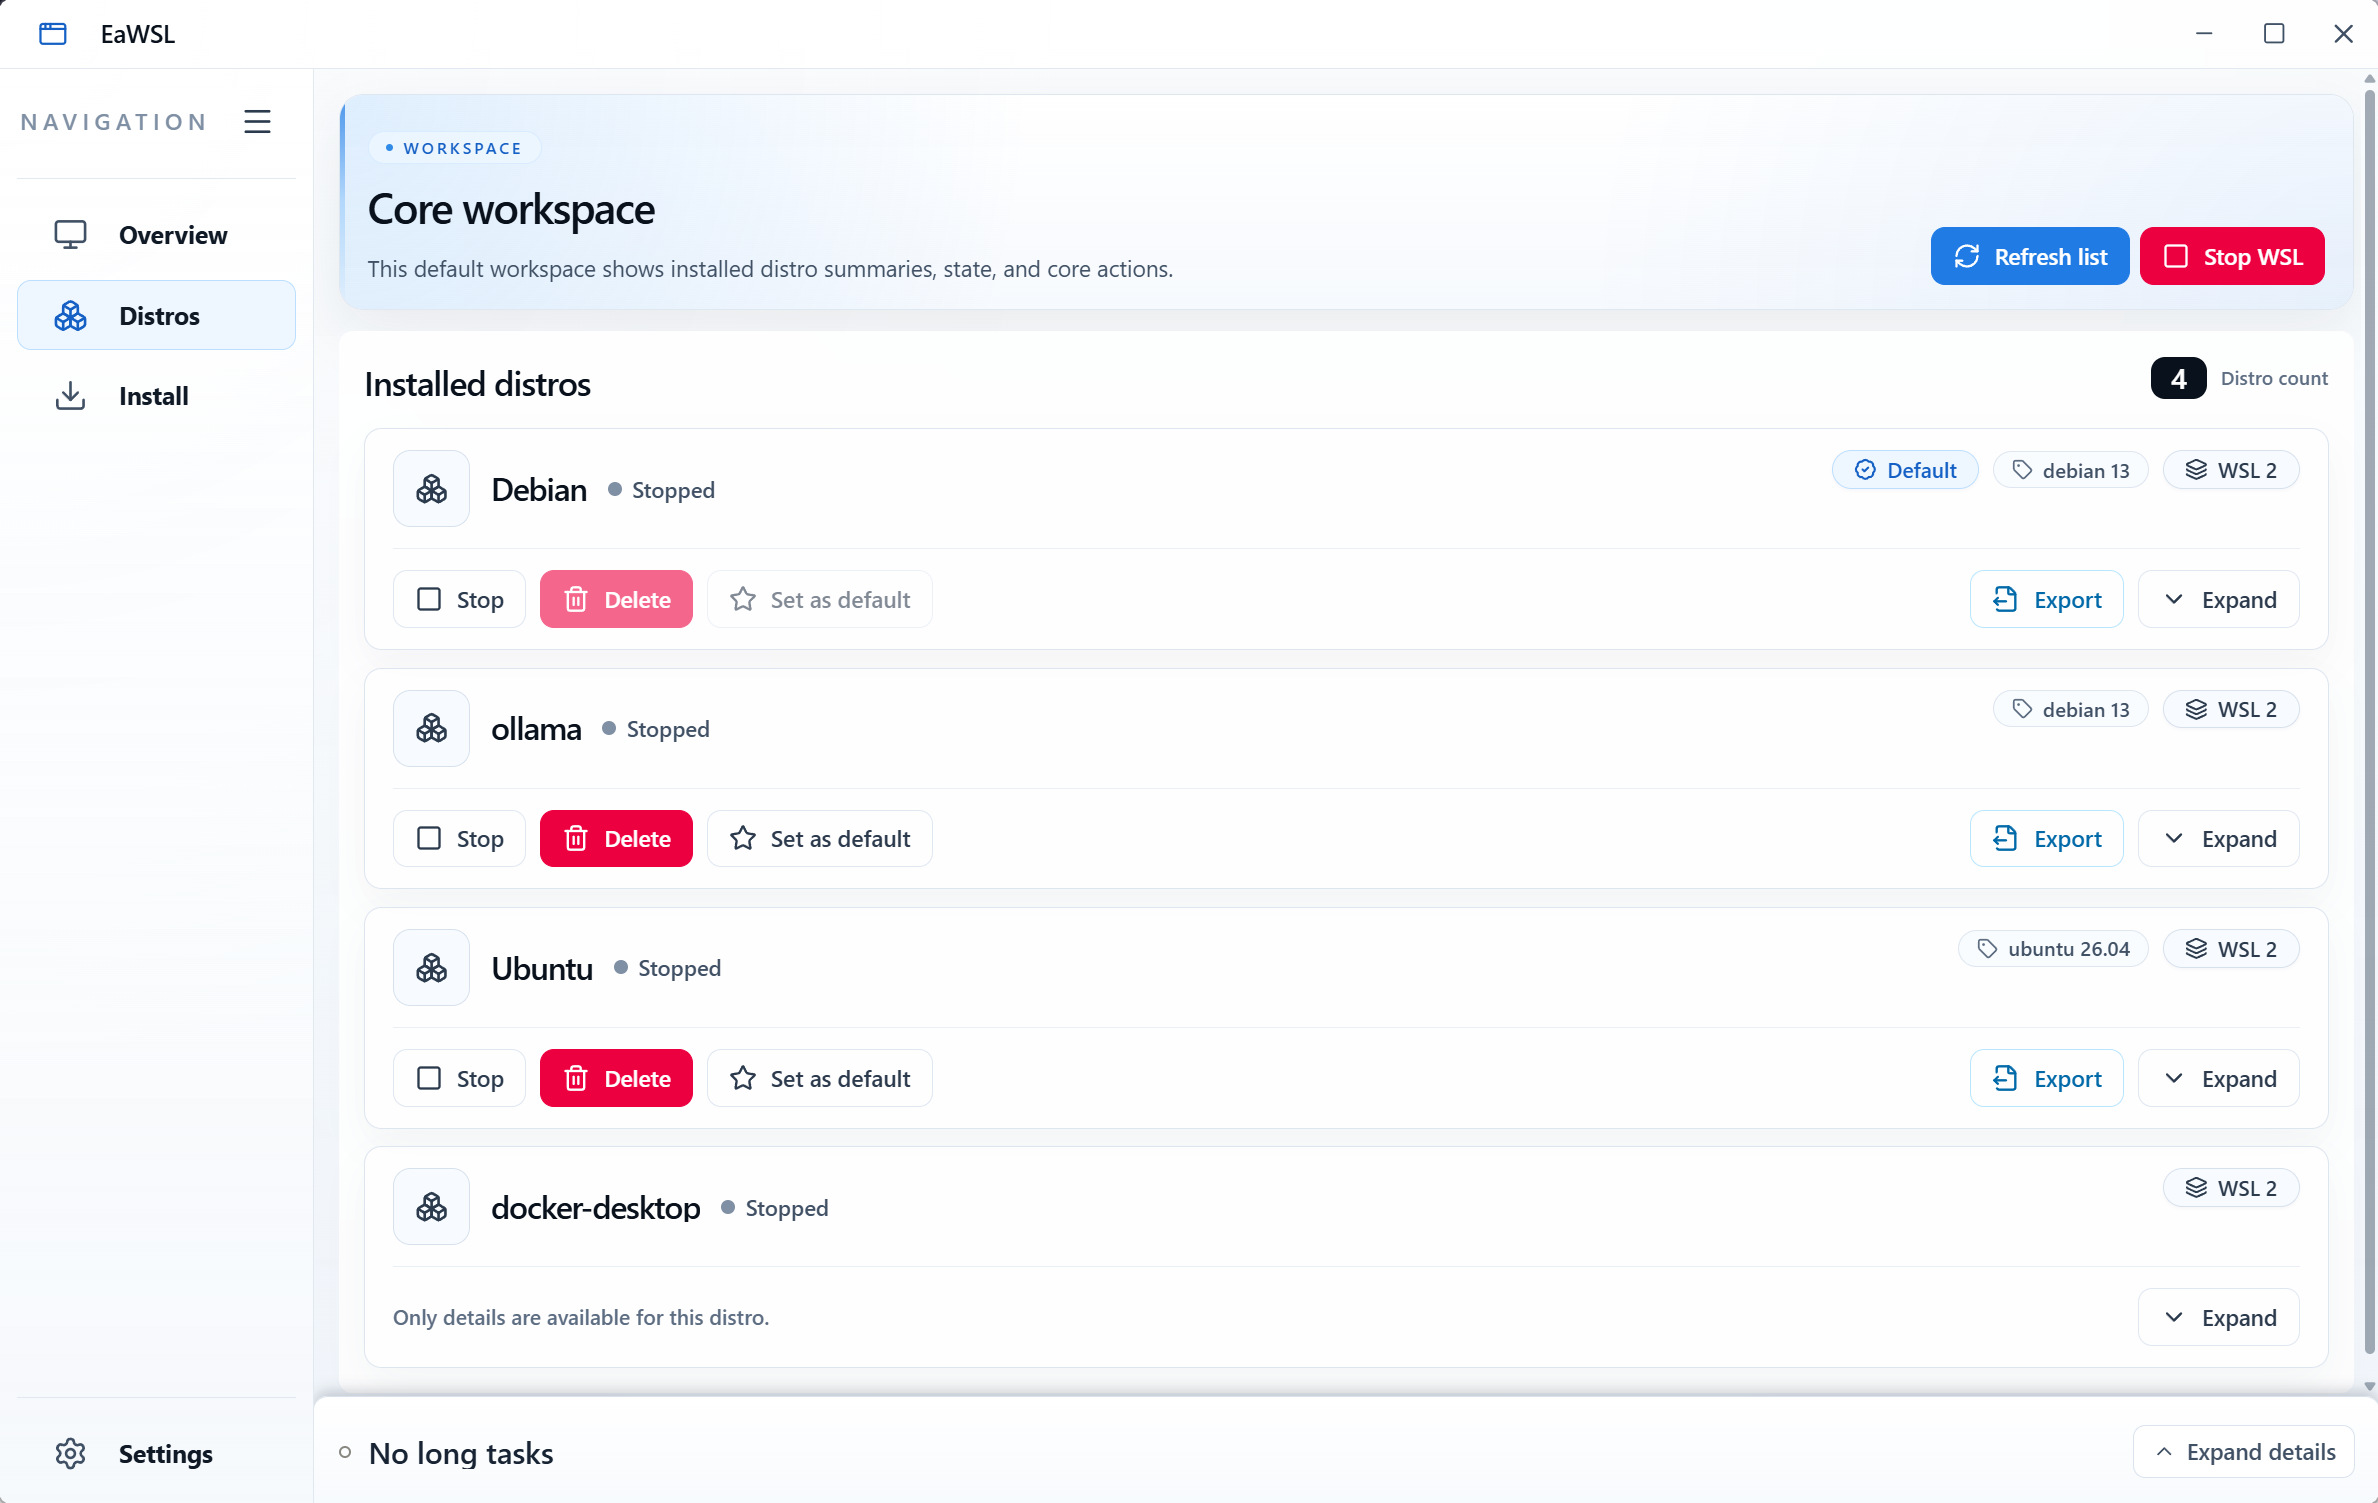
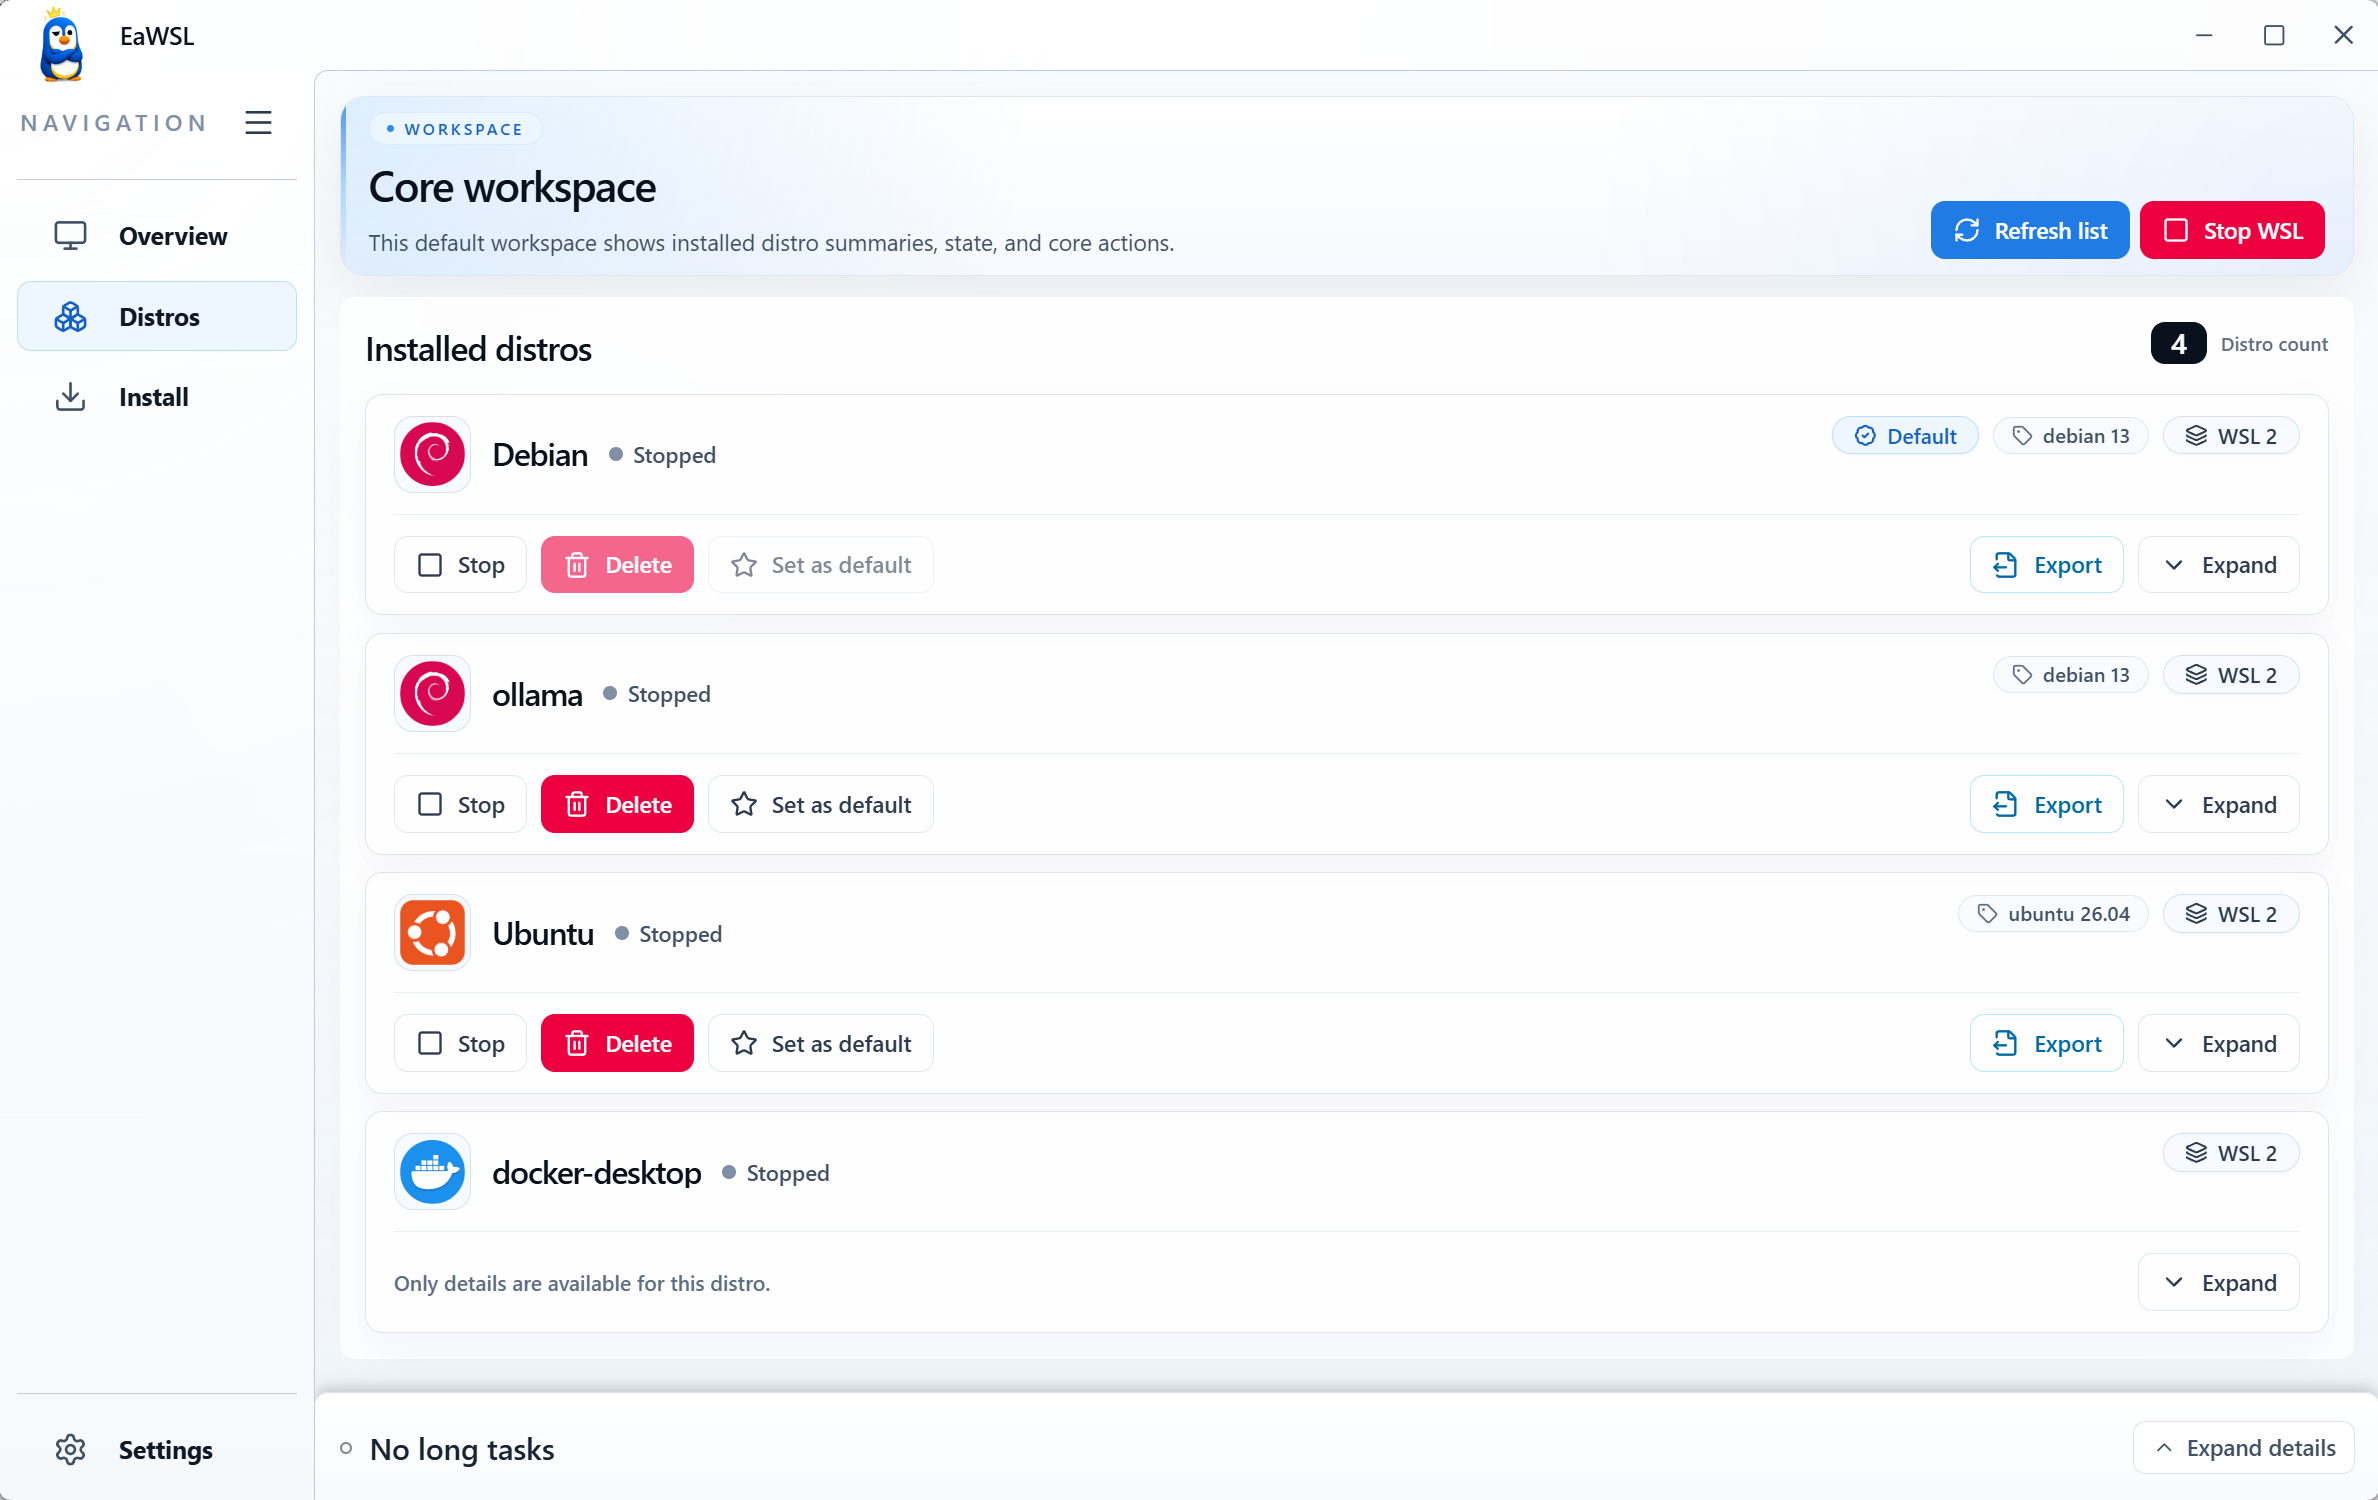
chore: bump version to 0.2.0

diff --git a/src/routes/settings/+page.svelte b/src/routes/settings/+page.svelte
@@ -36,7 +36,7 @@
   } from "$lib/tauri/settings";
 
   const DEFAULT_LANGUAGE: AppLanguage = "en-US";
-  const FALLBACK_APP_VERSION = "0.1.0";
+  const FALLBACK_APP_VERSION = "0.2.0";
   const APP_LOGO_SRC = "/favicon.png";
   const REPOSITORY_URL = "https://github.com/moeexx/EaWSL";
   const ISSUE_URL = `${REPOSITORY_URL}/issues`;